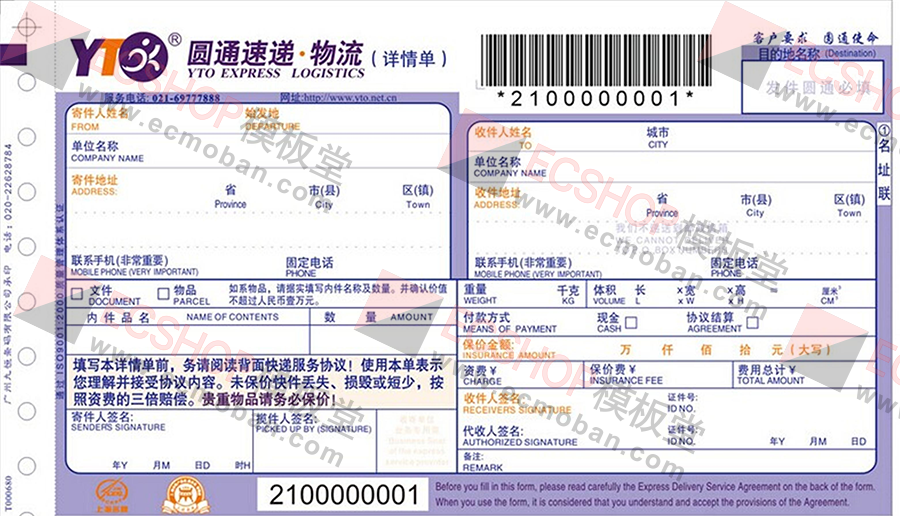
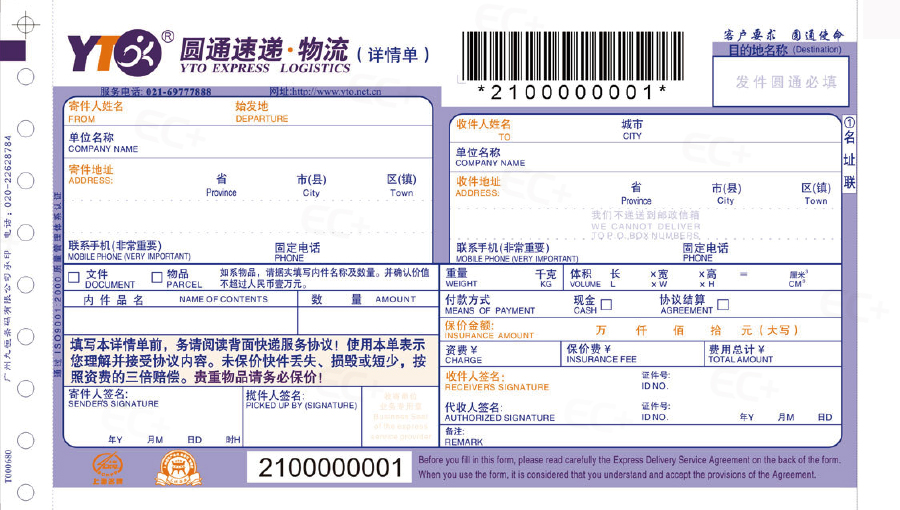
更新配送方式插件ship_yto

diff --git a/content/plugins/ship_yto/languages/zh_CN/plugin.lang.php b/content/plugins/ship_yto/languages/zh_CN/plugin.lang.php
@@ -50,44 +50,51 @@
 defined('IN_ECJIA') or exit('No permission resources.');
 
 return array(
-    'yto'          	=> '圆通速递',
-    'yto_desc'     	=> '上海圆通物流（速递）有限公司经过多年的网络快速发展，在中国速递行业中一直处于领先地位。为了能更好的发展国际快件市场，加快与国际市场的接轨，强化圆通的整体实力，圆通已在东南亚、欧美、中东、北美洲、非洲等许多城市运作国际快件业务',
-    
-    'item_fee' 		=> '单件商品费用',
-    'base_fee' 		=> '首重费用',
-    'step_fee' 		=> '续重费用',
-    
+    'yto'                    => '圆通速递',
+    'yto_desc'               => '上海圆通物流（速递）有限公司经过多年的网络快速发展，在中国速递行业中一直处于领先地位。为了能更好的发展国际快件市场，加快与国际市场的接轨，强化圆通的整体实力，圆通已在东南亚、欧美、中东、北美洲、非洲等许多城市运作国际快件业务',
+
+    'item_fee'               => '单件商品费用：',
+    'base_fee'               => '首重费用：',
+    'step_fee'               => '续重费用：',
+    'pay_fee'                => '货到付款支付费用：',
+    'free_money'             => '免费额度：',
+    'fee_compute_mode'       => '费用计算方式：',
+    'fee_compute_mode_range' => array(
+        'by_weight' => '按重量',
+        'by_number' => '按件数'
+    ),
+
     /* 快递单部分 */
-    'lable_select_notice' => '--选择插入标签--',
-    
-    'lable_box' => array(
-        'shop_country' => '网店-国家',
-        'shop_province' => '网店-省份',
-        'shop_city' => '网店-城市',
-        'shop_name' => '网店-名称',
-        'shop_district' => '网店-区/县',
-        'shop_tel' => '网店-联系电话',
-        'shop_address' => '网店-地址',
-        'customer_country' => '收件人-国家',
+    'lable_select_notice'    => '--选择插入标签--',
+
+    'lable_box'              => array(
+        'shop_country'      => '网店-国家',
+        'shop_province'     => '网店-省份',
+        'shop_city'         => '网店-城市',
+        'shop_name'         => '网店-名称',
+        'shop_district'     => '网店-区/县',
+        'shop_tel'          => '网店-联系电话',
+        'shop_address'      => '网店-地址',
+        'customer_country'  => '收件人-国家',
         'customer_province' => '收件人-省份',
-        'customer_city' => '收件人-城市',
+        'customer_city'     => '收件人-城市',
         'customer_district' => '收件人-区/县',
-        'customer_tel' => '收件人-电话',
-        'customer_mobel' => '收件人-手机',
-        'customer_post' => '收件人-邮编',
-        'customer_address' => '收件人-详细地址',
-        'customer_name' => '收件人-姓名',
-        'year' => '年-当日日期',
-        'months' => '月-当日日期',
-        'day' => '日-当日日期',
-        'order_no' => '订单号-订单',
-        'order_postscript' => '备注-订单',
-        'order_best_time' => '送货时间-订单',
-        'pigeon' => '√-对号',
+        'customer_tel'      => '收件人-电话',
+        'customer_mobel'    => '收件人-手机',
+        'customer_post'     => '收件人-邮编',
+        'customer_address'  => '收件人-详细地址',
+        'customer_name'     => '收件人-姓名',
+        'year'              => '年-当日日期',
+        'months'            => '月-当日日期',
+        'day'               => '日-当日日期',
+        'order_no'          => '订单号-订单',
+        'order_postscript'  => '备注-订单',
+        'order_best_time'   => '送货时间-订单',
+        'pigeon'            => '√-对号',
         //'custom_content' => '自定义内容',
     ),
-    
-    'shipping_print' => '<table border="0" cellspacing="0" cellpadding="0" style="width:18.6cm; height:11.3cm;">
+
+    'shipping_print'         => '<table border="0" cellspacing="0" cellpadding="0" style="width:18.6cm; height:11.3cm;">
   <tr>
     <td valign="top" style="width:7.2cm;">
       <table width="100%" border="0" cellspacing="0" cellpadding="0">
@@ -185,10 +192,10 @@ return array(
         <td style="width:2.8cm;">{$order.mobile}</td>
       </tr>
     </table>
-    
+
     </td>
     <td valign="top" style="width:4.2cm;">&nbsp;
-    
+
     </td>
   </tr>
 </table>',

diff --git a/content/plugins/ship_yto/config.php b/content/plugins/ship_yto/config.php
@@ -46,21 +46,23 @@
 //
 defined('IN_ECJIA') or exit('No permission resources.');
 
-RC_Lang::load_plugin('ship_yto');
-
 return array(
     'shipping_code' => 'ship_yto',
-	'insure' 		=> false,		/* 不支持保价 */
-	'cod' 			=> true, 		/* 配送方式是否支持货到付款 */
-	'print_model'	=> 2,			/* 模式编辑器 */
-	'print_bg'		=> RC_Plugin::plugins_url('images/dly_yto.jpg',__FILE__) ,			/* 打印单背景 */
-	'config_lable'	=> 't_shop_province,' . RC_Lang::lang('lable_box/shop_province') . ',132,24,279.6,105.7,b_shop_province||,||t_shop_name,' . RC_Lang::lang('lable_box/shop_name') . ',268,29,142.95,133.85,b_shop_name||,||t_shop_address,' . RC_Lang::lang('lable_box/shop_address') . ',346,40,67.3,199.95,b_shop_address||,||t_shop_city,' . RC_Lang::lang('lable_box/shop_city') . ',64,35,223.8,163.95,b_shop_city||,||t_shop_district,' . RC_Lang::lang('lable_box/shop_district') . ',56,35,314.9,164.25,b_shop_district||,||t_pigeon,' . RC_Lang::lang('lable_box/pigeon') . ',21,21,143.1,263.2,b_pigeon||,||t_customer_name,' . RC_Lang::lang('lable_box/customer_name') . ',89,25,488.65,121.05,b_customer_name||,||t_customer_tel,' . RC_Lang::lang('lable_box/customer_tel') . ',136,21,656,110.6,b_customer_tel||,||t_customer_mobel,' . RC_Lang::lang('lable_box/customer_mobel') . ',137,21,655.6,132.8,b_customer_mobel||,||t_customer_province,' . RC_Lang::lang('lable_box/customer_province') . ',115,24,480.2,173.5,b_customer_province||,||t_customer_city,' . RC_Lang::lang('lable_box/customer_city') . ',60,27,609.3,172.5,b_customer_city||,||t_customer_district,' . RC_Lang::lang('lable_box/customer_district') . ',58,28,696.8,173.25,b_customer_district||,||t_customer_post,' . RC_Lang::lang('lable_box/customer_post'). ',93,21,701.1,240.25,b_customer_post||,||',			/* 打印快递单标签位置信息 */
-		
-	'forms' => array(
-			array('name' => 'item_fee',      'value' => 10),   /* 单件商品的配送价格 */
-			array('name' => 'base_fee',      'value' => 5),    /* 1000克以内的价格 */
-			array('name' => 'step_fee',      'value' => 5),    /* 续重每1000克增加的价格 */
-	),
+    'insure'        => false, /* 不支持保价 */
+    'cod'      		=> true, /* 配送方式是否支持货到付款 */
+    'print_support' => true,
+    'print_model'   => 2, /* 模式编辑器 */
+    'print_bg' 		=> 'images/dly_yto.jpg', /* 打印单背景 */
+    'config_lable'  => 't_shop_province,shop_province,132,24,279.6,105.7,b_shop_province||,||t_shop_name,shop_name,268,29,142.95,133.85,b_shop_name||,||t_shop_address,shop_address,346,40,67.3,199.95,b_shop_address||,||t_shop_city,shop_city,64,35,223.8,163.95,b_shop_city||,||t_shop_district,shop_district,56,35,314.9,164.25,b_shop_district||,||t_pigeon,pigeon,21,21,143.1,263.2,b_pigeon||,||t_customer_name,customer_name,89,25,488.65,121.05,b_customer_name||,||t_customer_tel,customer_tel,136,21,656,110.6,b_customer_tel||,||t_customer_mobel,customer_mobel,137,21,655.6,132.8,b_customer_mobel||,||t_customer_province,customer_province,115,24,480.2,173.5,b_customer_province||,||t_customer_city,customer_city,60,27,609.3,172.5,b_customer_city||,||t_customer_district,customer_district,58,28,696.8,173.25,b_customer_district||,||t_customer_post,customer_post,93,21,701.1,240.25,b_customer_post||,||', /* 打印快递单标签位置信息 */
+
+    'forms' => array(
+        array('name' => 'fee_compute_mode', 'type' => 'radiobox', 'value' => 'by_weight'), /* 费用计算方式  */
+        array('name' => 'item_fee', 'type' => 'text', 'value' => 10), /* 单件商品的配送价格 */
+        array('name' => 'base_fee', 'type' => 'text', 'value' => 5), /* 1000克以内的价格 */
+        array('name' => 'step_fee', 'type' => 'text', 'value' => 5), /* 续重每1000克增加的价格 */
+        array('name' => 'free_money', 'type' => 'text', 'value' => 0), /* 免费额度  */
+        array('name' => 'pay_fee', 'type' => 'text', 'value' => 0), /* 货到付款支付费用  */
+    ),
 );
 
 // end

diff --git a/content/plugins/ship_yto/ship_yto.class.php b/content/plugins/ship_yto/ship_yto.class.php
@@ -51,20 +51,58 @@
 
 defined('IN_ECJIA') or exit('No permission resources.');
 
-RC_Loader::load_app_class('shipping_abstract', 'shipping', false);
+use Ecjia\App\Shipping\ShippingAbstract;
 
-class ship_yto extends shipping_abstract
+class ship_yto extends ShippingAbstract
 {
+    /**
+     * 获取插件代号
+     *
+     * @see \Ecjia\System\Plugin\PluginInterface::getCode()
+     */
+    public function getCode()
+    {
+        return $this->loadConfig('shipping_code');
+    }
     
     /**
-     * 获取插件配置信息
+     * 加载配置文件
+     *
+     * @see \Ecjia\System\Plugin\PluginInterface::loadConfig()
      */
-    public function configure_config() {
-        $config = include(RC_Plugin::plugin_dir_path(__FILE__) . 'config.php');
-        if (is_array($config)) {
-            return $config;
-        }
-        return array();
+    public function loadConfig($key = null, $default = null)
+    {
+        return $this->loadPluginData(RC_Plugin::plugin_dir_path(__FILE__) . 'config.php', $key, $default);
+    }
+    
+    /**
+     * 加载语言包
+     *
+     * @see \Ecjia\System\Plugin\PluginInterface::loadLanguage()
+     */
+    public function loadLanguage($key = null, $default = null)
+    {
+        $locale = RC_Config::get('system.locale');
+    
+        return $this->loadPluginData(RC_Plugin::plugin_dir_path(__FILE__) . '/languages/'.$locale.'/plugin.lang.php', $key, $default);
+    }
+    
+    /**
+     * 返回快递单打印背景图片
+     * @return NULL|string
+     */
+    public function printBcakgroundImage()
+    {
+        
+    }
+    
+    /**
+     * 返回快递单默认打印背景图片
+     * @return NULL|string
+     */
+    public function defaultPrintBackgroundImage()
+    {
+        return RC_Plugin::plugins_url($this->loadConfig('print_bg'), __FILE__);
     }
 
     /**
@@ -77,24 +115,24 @@ class ship_yto extends shipping_abstract
      */
     public function calculate($goods_weight, $goods_amount, $goods_number)
     {
-        if ($this->configure['free_money'] > 0 && $goods_amount >= $this->configure['free_money'])
+        if ($this->config['free_money'] > 0 && $goods_amount >= $this->config['free_money'])
         {
             return 0;
         }
         else
         {
-            @$fee = $this->configure['base_fee'];
-            $this->configure['fee_compute_mode'] = !empty($this->configure['fee_compute_mode']) ? $this->configure['fee_compute_mode'] : 'by_weight';
+            @$fee = $this->config['base_fee'];
+            $this->config['fee_compute_mode'] = !empty($this->config['fee_compute_mode']) ? $this->config['fee_compute_mode'] : 'by_weight';
 
-            if ($this->configure['fee_compute_mode'] == 'by_number')
+            if ($this->config['fee_compute_mode'] == 'by_number')
             {
-                $fee = $goods_number * $this->configure['item_fee'];
+                $fee = $goods_number * $this->config['item_fee'];
             }
             else
             {
                 if ($goods_weight > 1)
                 {
-                    $fee += (ceil(($goods_weight - 1))) * $this->configure['step_fee'];
+                    $fee += (ceil(($goods_weight - 1))) * $this->config['step_fee'];
                 }
             }
 

diff --git a/content/plugins/ship_yto/ship_yto.php b/content/plugins/ship_yto/ship_yto.php
@@ -49,7 +49,7 @@ Plugin Name: 圆通速递
 Plugin URI: http://www.ecjia.com/plugins/ecjia.yto/
 Description: 上海圆通物流（速递）有限公司经过多年的网络快速发展，在中国速递行业中一直处于领先地位。为了能更好的发展国际快件市场，加快与国际市场的接轨，强化圆通的整体实力，圆通已在东南亚、欧美、中东、北美洲、非洲等许多城市运作国际快件业务
 Author: ECJIA TEAM
-Version: 1.0.0
+Version: 2.0.0
 Author URI: http://www.ecjia.com/
 Plugin App: shipping
 */
@@ -58,6 +58,9 @@ class plugin_ship_yto {
 
     public static function install() {
         $config = include(RC_Plugin::plugin_dir_path(__FILE__) . 'config.php');
+        $config['print_bg'] = Ecjia_PluginManager::driver('ship_yto')->defaultPrintBackgroundImage();
+        $config['config_lable'] = Ecjia_PluginManager::driver('ship_yto')->getConfigLabel();
+        
         $param = array('file' => __FILE__, 'config' => $config);
         RC_Api::api('shipping', 'plugin_install', $param);
     }
@@ -76,8 +79,12 @@ class plugin_ship_yto {
     }
 }
 
+Ecjia_PluginManager::extend('ship_yto', function() {
+    require_once RC_Plugin::plugin_dir_path(__FILE__) . 'ship_yto.class.php';
+    return new ship_yto();
+});
+
 RC_Plugin::register_activation_hook(__FILE__, array('plugin_ship_yto', 'install'));
 RC_Plugin::register_deactivation_hook(__FILE__, array('plugin_ship_yto', 'uninstall'));
-RC_Hook::add_filter('shipping_factory_adapter_instance', array( 'plugin_ship_yto', 'adapter_instance' ), 10, 2);
 
 // end
